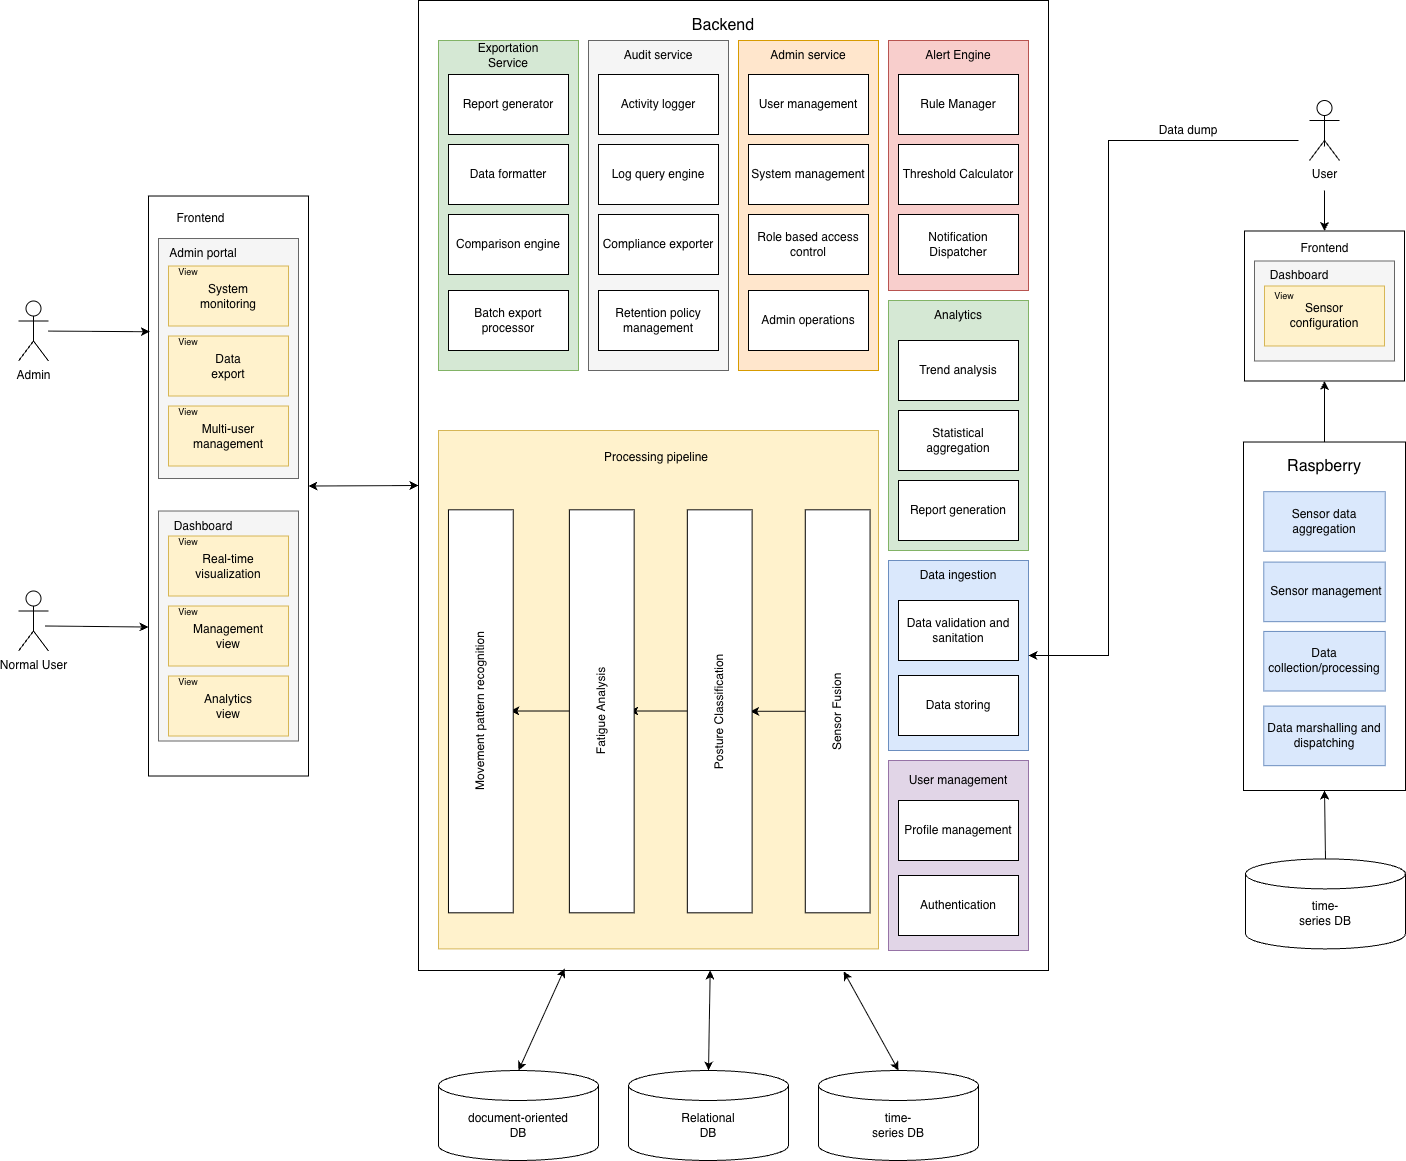
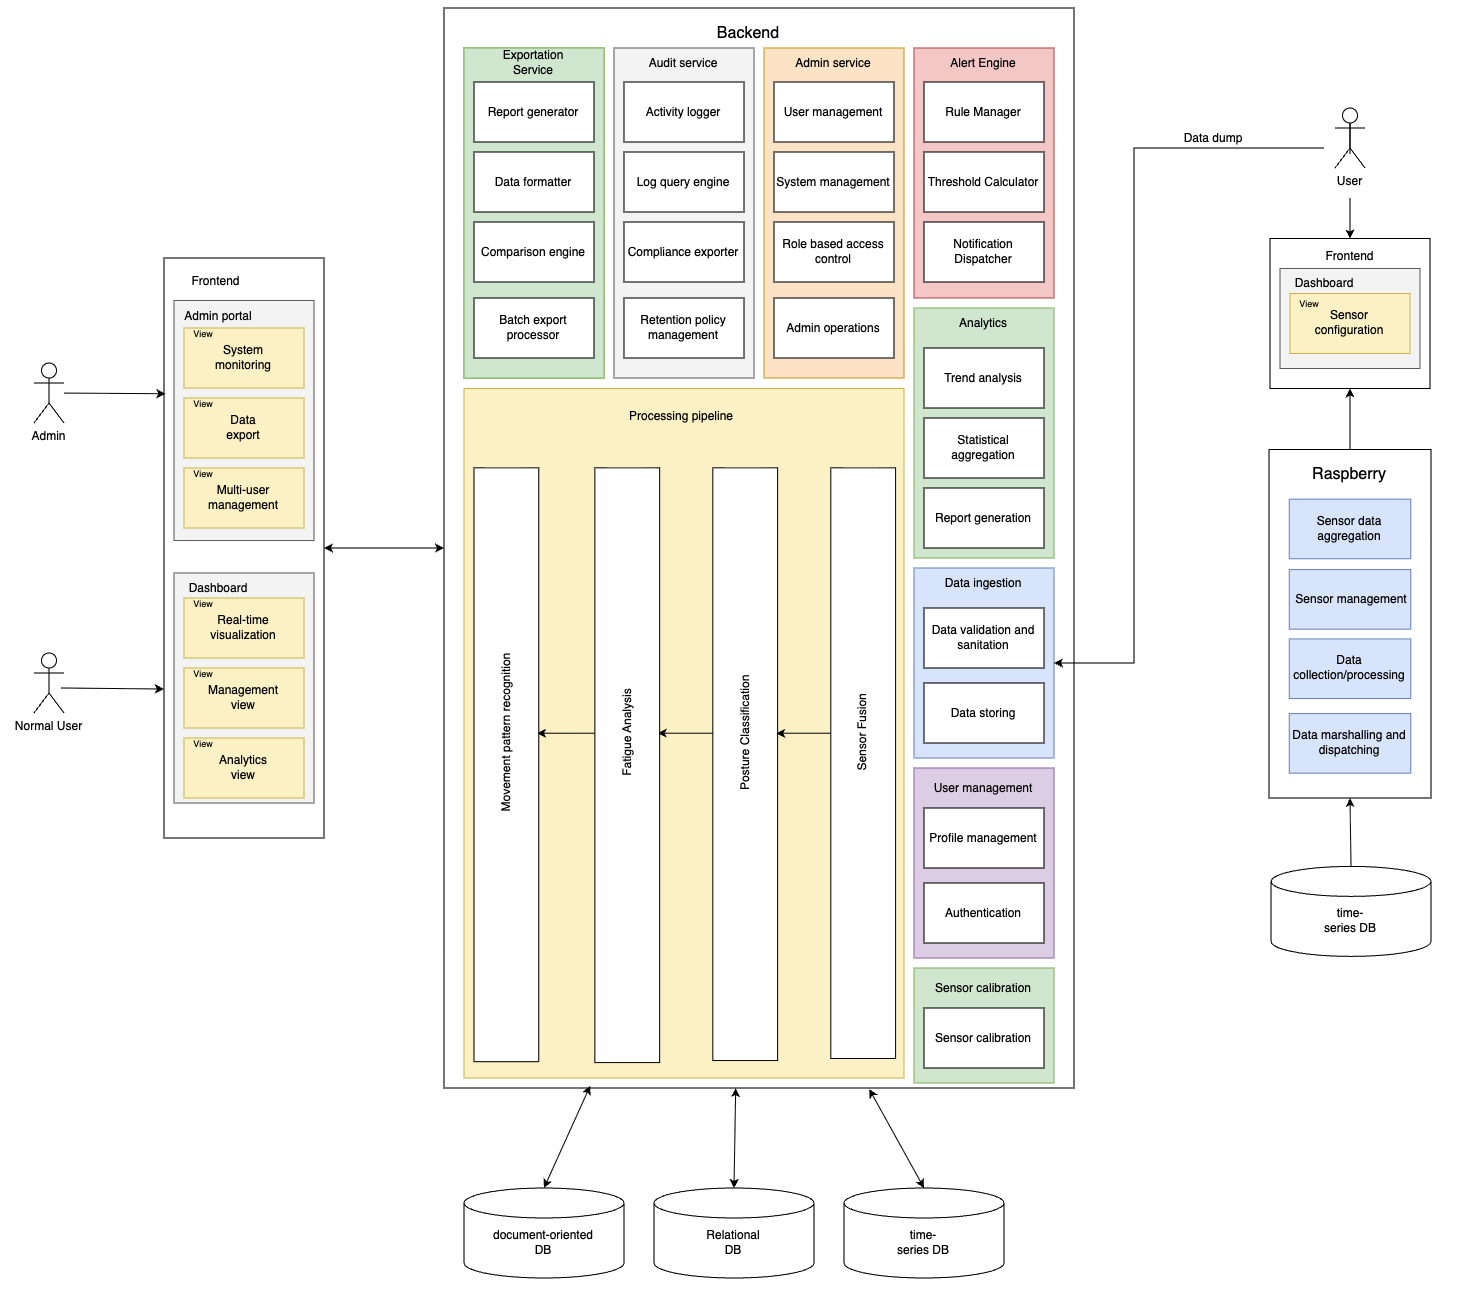
Tecnologias atualizadas

diff --git a/my-website/docs/SystemInformation/technologies.md b/my-website/docs/SystemInformation/technologies.md
@@ -8,7 +8,15 @@ import docusaurus from "@site/static/img/technologies/docusaurus.png";
 import google from "@site/static/img/technologies/google_docs.png";
 import canva from "@site/static/img/technologies/canva.png";
 import jira from "@site/static/img/technologies/jira.png";
-
+import react from "@site/static/img/technologies/React.png";
+import typescript from "@site/static/img/technologies/typescript.png";
+import vite from "@site/static/img/technologies/vite.png";
+import fastapi from "@site/static/img/technologies/fastapi.png";
+import postgresql from "@site/static/img/technologies/Postgresql.png";
+import clickhouse from "@site/static/img/technologies/clickhouse.png";
+import mongodb from "@site/static/img/technologies/mongodb.png";
+import docker from "@site/static/img/technologies/docker.png";
+import nginx from "@site/static/img/technologies/nginx.png";
 
 # Technologies
 
@@ -21,6 +29,15 @@ This section lists the different technologies we use and how they are used.
 |<img src={github} width="60" height="60"/>| Github | Code Repository |
 |<img src={notion} width="60" height="60"/>| Notion | Calendar Project |
 |<img src={jira} width="60" height="60"/>| Jira | Project Organization |
+|<img src={react} width="60" height="60"/>| React 19 | Frontend framework |
+|<img src={typescript} width="60" height="60"/>| TypeScript | Type-safe development |
+|<img src={vite} width="60" height="60"/>| Vite | Build tool and dev server |
+|<img src={fastapi} width="60" height="60"/>| FastAPI | Backend API framework |
+|<img src={postgresql} width="60" height="60"/>| PostgreSQL | Relational database |
+|<img src={clickhouse} width="60" height="60"/>| Clickhouse | Time series databases |
+|<img src={mongodb} width="60" height="60"/>| mongoDB | Document-oriented databases |
+|<img src={docker} width="60" height="60"/>| Docker | Containerization |
+|<img src={nginx} width="60" height="60"/>| Nginx | Web server and proxy |
 |<img src={docusaurus} width="60" height="60"/>| Docusaurus | Communication Plan |
 |<img src={canva} width="60" height="60"/>| Canva | Presentations |
 |<img src={google} width="60" height="60"/>| Google Docs | Documentation |
